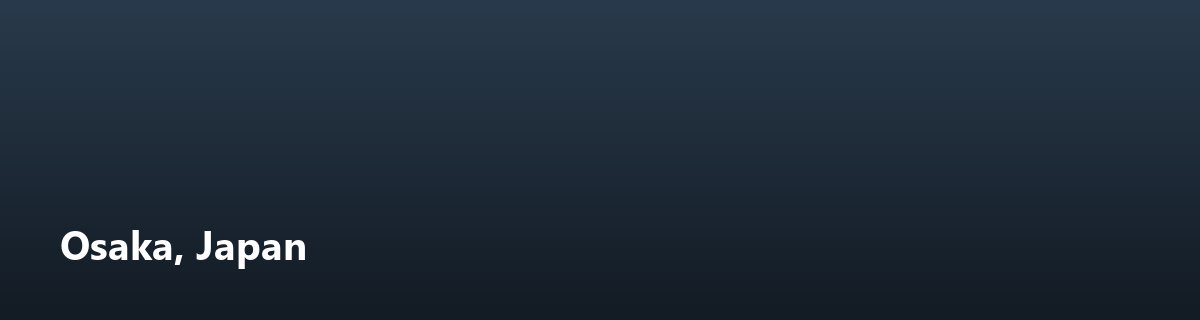
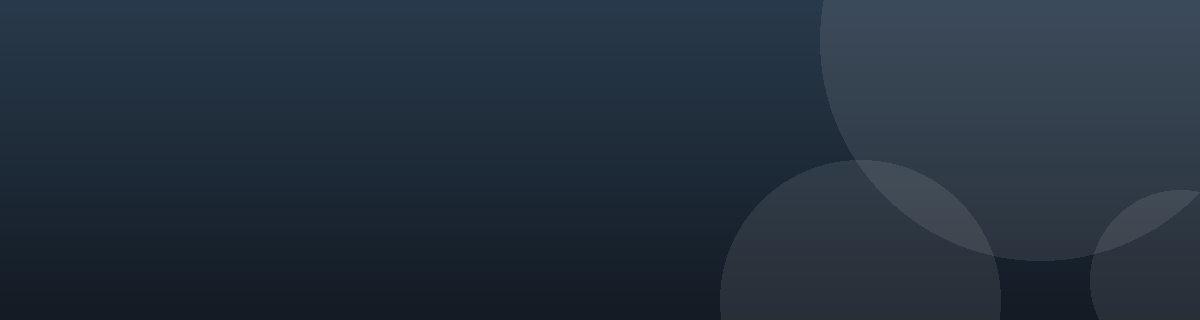
feat(demo): seed structured recipes and text-free profile covers
seed_demo_data now fills the structured recipe fields and gives likes
realistic timestamps. Profile covers no longer contain text, which was
cropped on narrow screens and hidden behind the avatar.

Changed region(s): [[0.7092, 0.5, 0.8325, 0.8125], [0.0308, 0.7188, 0.2775, 0.8438], [0.8942, 0.5938, 1.0, 0.8125]]

diff --git a/core/management/commands/seed_demo_data.py b/core/management/commands/seed_demo_data.py
@@ -122,10 +122,12 @@ class Command(BaseCommand):
         draw.text((128, 128), initials, font=load_font(110, bold=True), fill="white", anchor="mm")
         return self.save_image(img, Path(MEDIA_SUBDIR, "avatars", f"{username}.png"))
 
-    def make_cover(self, username, caption, colour):
+    def make_cover(self, username, colour):
+        # No text: covers are cropped on narrow screens and the avatar overlaps a corner.
         img = gradient((1200, 320), shade(colour, 0.95), shade(colour, 0.45))
-        draw = ImageDraw.Draw(img)
-        draw.text((60, 260), caption, font=load_font(40, bold=True), fill=(255, 255, 255), anchor="ls")
+        draw = ImageDraw.Draw(img, "RGBA")
+        for x, y, r in [(1040, 40, 220), (860, 300, 140), (1180, 280, 90)]:
+            draw.ellipse([x - r, y - r, x + r, y + r], fill=(255, 255, 255, 22))
         return self.save_image(img, Path(MEDIA_SUBDIR, "covers", f"{username}.jpg"), quality=85)
 
     def make_dish_image(self, dish, cuisine, colour, author):
@@ -165,7 +167,7 @@ class Command(BaseCommand):
             profile.about = about
             profile.phone = f"+{self.rng.randint(10, 99)} {self.rng.randint(100, 999)} {self.rng.randint(1000, 9999)}"
             profile.profile_image = self.make_avatar(username, first[0] + last[0], colour)
-            profile.cover_image = self.make_cover(username, f"{city}, {country}", colour)
+            profile.cover_image = self.make_cover(username, colour)
             profile.save()
             user.demo = {"cuisine": cuisine, "colour": colour}
             users.append(user)
@@ -188,12 +190,17 @@ class Command(BaseCommand):
 
             times = sorted(self.random_time(self.now - timedelta(days=42)) for _ in planned)
             for (kind, dish, dish_cuisine), created_at in zip(planned, times):
-                image = None
+                image, recipe = None, {}
                 if kind == "recipe":
                     name, course, veg, ingredients, steps = dish
-                    body = self.recipe_body(dish)
+                    body, servings, minutes = self.recipe_body(dish)
                     tags = [cuisine, course] + (["vegetarian"] if veg else [])
                     image = self.make_dish_image(name, cuisine, colour, user.username)
+                    recipe = {
+                        "title": name, "cuisine": cuisine, "ingredients": ingredients, "steps": steps,
+                        "servings": servings, "cook_time": minutes,
+                        "difficulty": "easy" if minutes <= 30 else "medium" if minutes <= 60 else "hard",
+                    }
                 elif kind == "tried":
                     name = dish[0]
                     author = by_cuisine[dish_cuisine].username
@@ -210,7 +217,7 @@ class Command(BaseCommand):
                         dish=any_dish[0], ingredient=self.rng.choice(any_dish[3]))
                     tags = ["askthecommunity"]
 
-                post = Post.objects.create(user=user, body=body, created_at=created_at)
+                post = Post.objects.create(user=user, body=body, created_at=created_at, **recipe)
                 self.add_tags(post, tags)
                 if image:
                     post.image.add(PostImage.objects.create(image=image))
@@ -224,9 +231,9 @@ class Command(BaseCommand):
         lines += [f"- {item}" for item in ingredients]
         lines += ["", "Steps:"]
         lines += [f"{i}. {step}" for i, step in enumerate(steps, 1)]
-        minutes = self.rng.choice([20, 30, 45, 60, 90, 120])
-        lines += ["", f"Serves {self.rng.randint(2, 6)} | Ready in {minutes} min"]
-        return "\n".join(lines)
+        minutes, servings = self.rng.choice([20, 30, 45, 60, 90, 120]), self.rng.randint(2, 6)
+        lines += ["", f"Serves {servings} | Ready in {minutes} min"]
+        return "\n".join(lines), servings, minutes
 
     # ---------------------------------------------------------------- follows
 
@@ -284,8 +291,9 @@ class Command(BaseCommand):
             others = [u for u in users if u != post.user]
             likers = self.rng.sample(others, self.rng.randint(*ranges[post.demo["kind"]]))
             for liker in likers:
-                Likes.objects.create(user=liker, post=post)
-                self.stamp_last_notification(self.random_time(post.created_at))
+                liked_at = self.random_time(post.created_at)
+                Likes.objects.create(user=liker, post=post, created_at=liked_at)
+                self.stamp_last_notification(liked_at)
             Post.objects.filter(pk=post.pk).update(likes=len(likers))  # keep the counter in sync
             count += len(likers)
         return count
